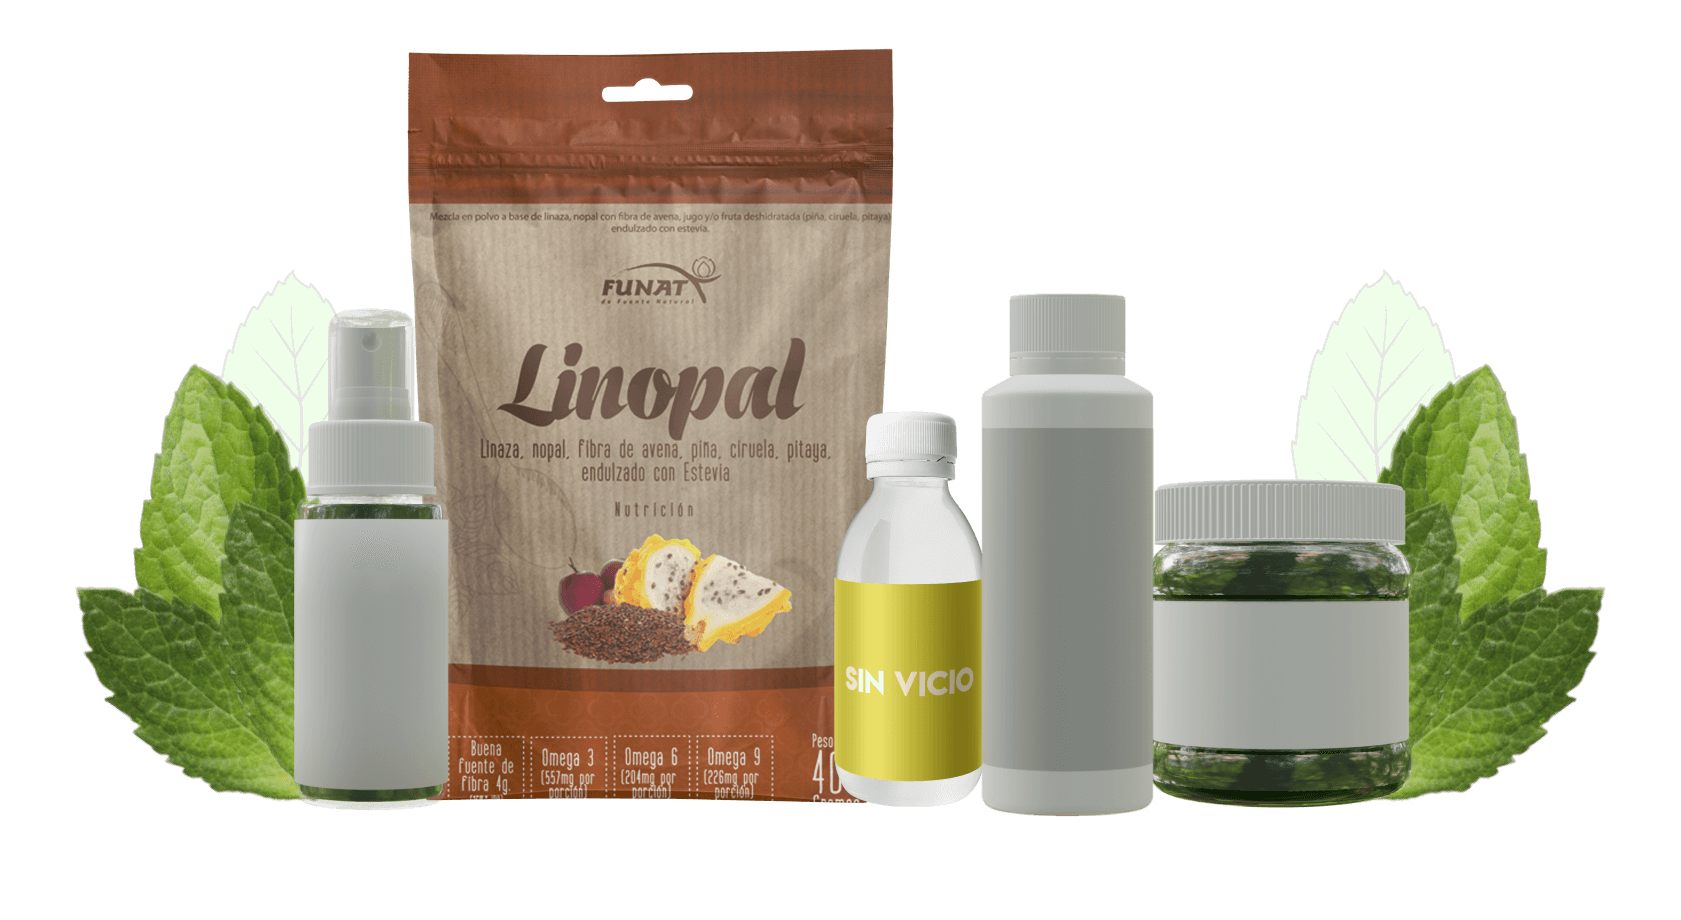
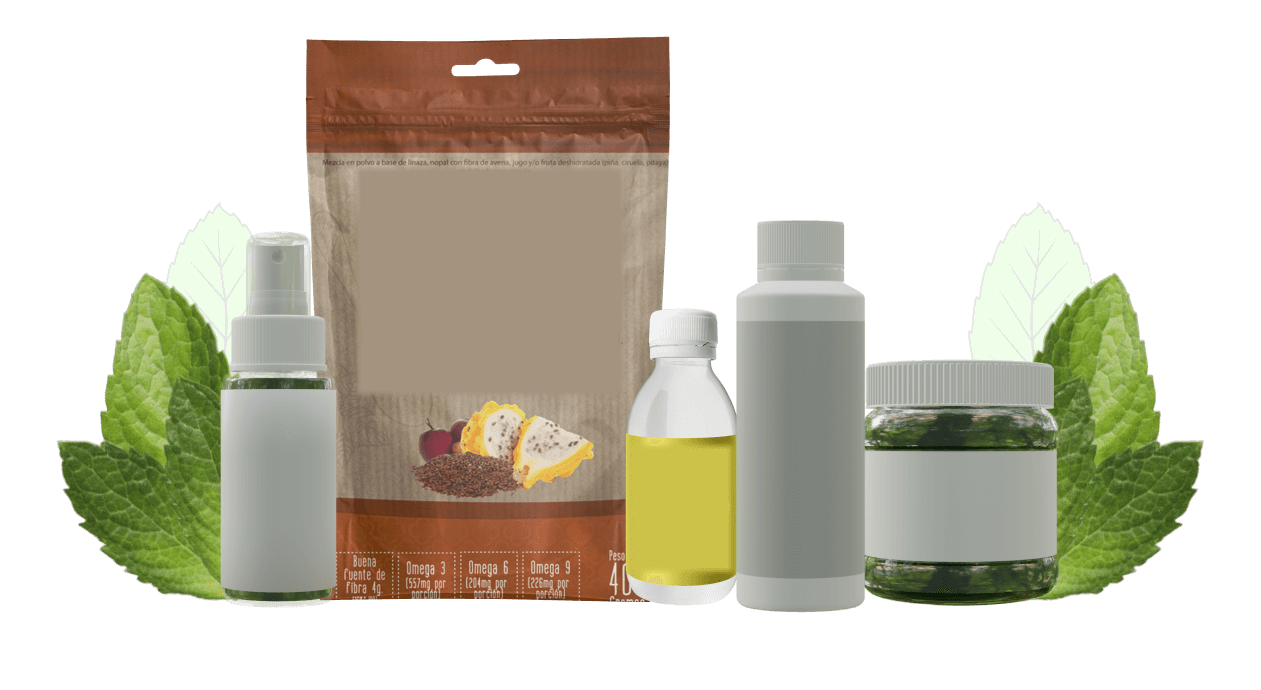
unnecessary info from photos deleted

Changed region(s): [[0.2784, 0.2435, 0.4948, 0.5783], [0.4948, 0.6391, 0.5876, 0.8522]]

diff --git a/index.html b/index.html
@@ -79,7 +79,8 @@
               class="banner-arrow-btn"
               src="images/arrow_btn.svg"
               alt="Ver más"
-          /></a>
+            />
+          </a>
         </div>
       </div>
 
